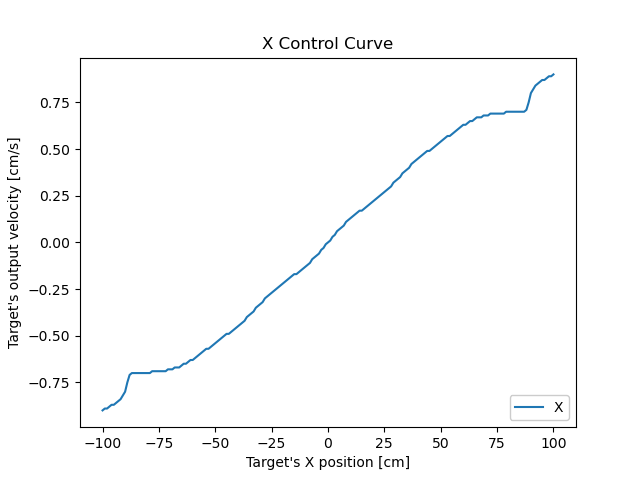
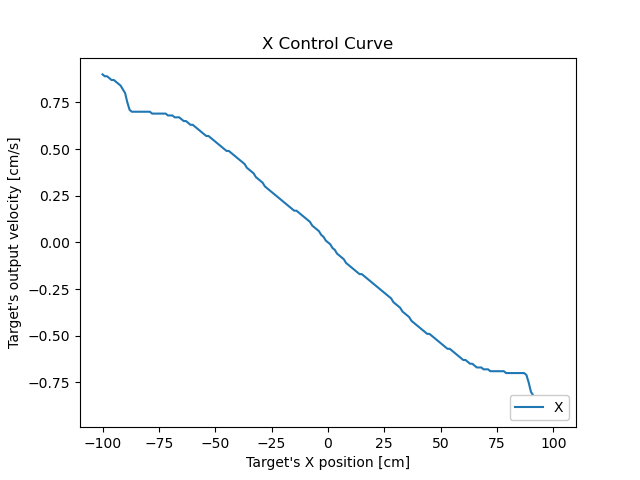
lateral controller done

diff --git a/Controller.py b/Controller.py
@@ -68,13 +68,13 @@ class DroneController:
 
     def SetOutputs(self):       
         Outputs_X = []
-        Outputs_X.append(sf.FuzzySet(points=[[-1.0, 1.0], [-0.8, 0.0]], term = "hard_left", verbose = self.GetLog()))
-        Outputs_X.append(sf.FuzzySet(function=sf.Triangular_MF(-1.0, -0.7, -0.4), term = "left", verbose = self.GetLog()))
-        Outputs_X.append(sf.FuzzySet(function=sf.Triangular_MF(-0.6, -0.3, -0.0), term = "soft_left", verbose = self.GetLog()))
+        Outputs_X.append(sf.FuzzySet(points=[[0.8, 0.0], [1.0, 1.0]], term = "hard_left", verbose = self.GetLog()))
+        Outputs_X.append(sf.FuzzySet(function=sf.Triangular_MF(0.4, 0.7, 1.0), term = "left", verbose = self.GetLog()))
+        Outputs_X.append(sf.FuzzySet(function=sf.Triangular_MF(0.0, 0.3, 0.6), term = "soft_left", verbose = self.GetLog()))
         Outputs_X.append(sf.FuzzySet(function=sf.Gaussian_MF(0, 0.1), term = "stop", verbose = self.GetLog()))
-        Outputs_X.append(sf.FuzzySet(function=sf.Triangular_MF(0.0, 0.3, 0.6), term = "soft_right", verbose = self.GetLog()))
-        Outputs_X.append(sf.FuzzySet(function=sf.Triangular_MF(0.4, 0.7, 1.0), term = "right", verbose = self.GetLog()))
-        Outputs_X.append(sf.FuzzySet(points=[[0.8, 0.0], [1.0, 1.0]], term = "hard_right", verbose = self.GetLog()))
+        Outputs_X.append(sf.FuzzySet(function=sf.Triangular_MF(-0.6, -0.3, -0.0), term = "soft_right", verbose = self.GetLog()))
+        Outputs_X.append(sf.FuzzySet(function=sf.Triangular_MF(-1.0, -0.7, -0.4), term = "right", verbose = self.GetLog()))
+        Outputs_X.append(sf.FuzzySet(points=[[-1.0, 1.0], [-0.8, 0.0]], term = "hard_right", verbose = self.GetLog()))
         lv_X = sf.LinguisticVariable(Outputs_X, concept = "Velocity in lateral(x) axis", universe_of_discourse = [-1.0, 1.0])
         self.GetController().add_linguistic_variable("output_x", lv_X, verbose = self.GetLog())
         

diff --git a/dronecontroller.py b/dronecontroller.py
@@ -111,7 +111,6 @@ class ArucoTelloController():
     
     def ControlPosition(self):
         x, y, z, theta = self.GenerateControlSignals()
-        print(x, y, z, theta)
         self.SendControlSignalsToTheDrone(x, y, z, theta)
 
     def SendControlSignalsToTheDrone(self, x, y, z, theta):
@@ -168,9 +167,9 @@ class ArucoTelloController():
             return round(float(x), 0)
     
     def Run(self, run=True, fly = False):
-        self.Fly(fly)
         if run:
             try:
+                self.Fly(fly)
                 with concurrent.futures.ThreadPoolExecutor(max_workers=3) as executor:
                     self.detectorprocessor = executor.submit(self.GetDetector().Run)
                     self.velocitythread = executor.submit(self.UpdateVelocity)

diff --git a/test_ArucoDrone.py b/test_ArucoDrone.py
@@ -144,7 +144,10 @@ class TestDroneControllerLive(unittest.TestCase):
         print("testing the drone live")
         self.drone = ArucoTelloController()
         self.drone.Setup()
-        self.returner, self.velocity_return_value, self.control_return_value = self.drone.Run(fly = True)
+        try:
+            self.returner, self.velocity_return_value, self.control_return_value = self.drone.Run(fly = True)
+        except Exception as e:
+            self.exception = e
         
     def tearDown(self):
         self.drone.End()
